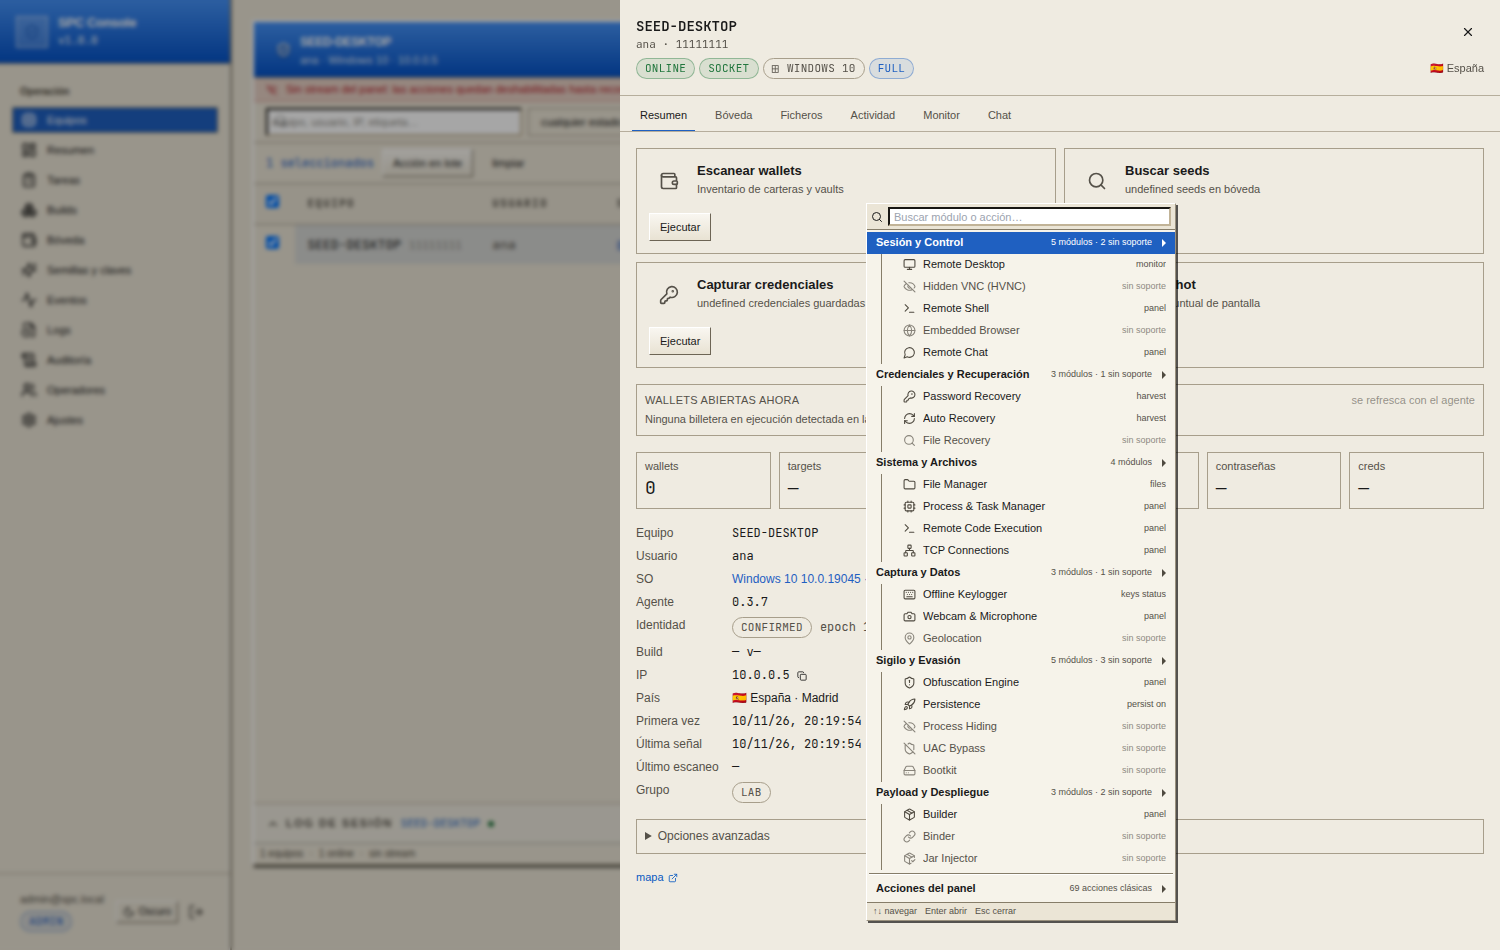
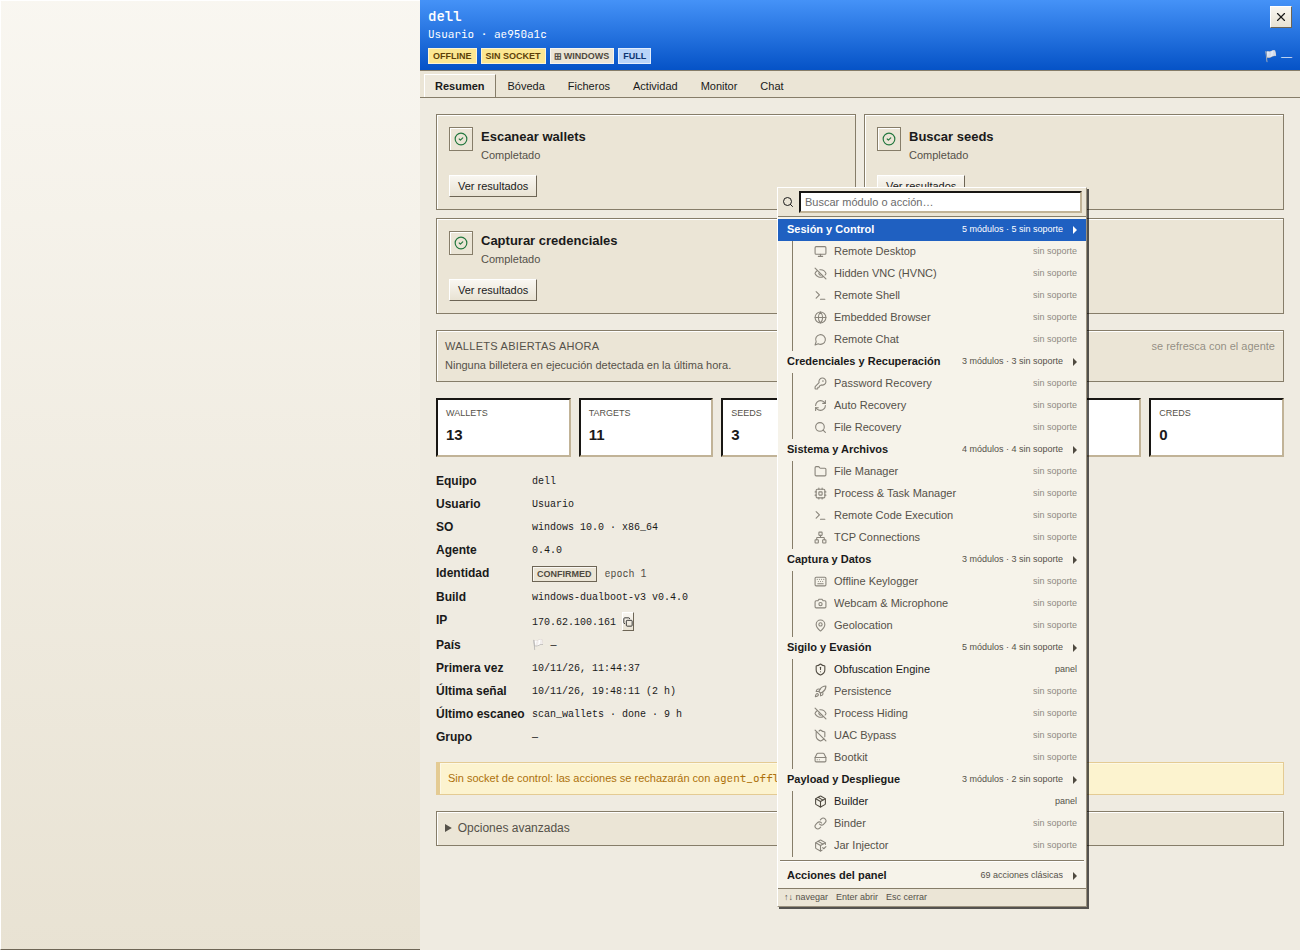
docs(ui): evidencias del despliegue con la pasada retro global

diff --git a/docs/MODULE_MENU_XP.md b/docs/MODULE_MENU_XP.md
@@ -65,7 +65,11 @@ Estado encontrado: trabajo a medias, sin compilar. Nada estaba cableado al panel
 
 ## 4. Evidencia visual
 
+- Pasada retro global: formularios hundidos, checkbox clásico, badges cuadrados por tono,
+  pestañas con relieve, filas seleccionadas azules, tarjetas de grupo, contadores
+  blancos, popovers y diálogos con barra de título.
 - `docs/ui/xp-victims.png`: listado con barra de título y estado.
+- `docs/ui/xp-detail.png`: detalle con cabecera azul, pestañas y metadatos densos.
 - `docs/ui/xp-module-menu.png`: las 6 categorías y los 23 módulos.
 - `docs/ui/xp-module-unsupported.png`: modal de módulo sin backend con reintento.
 - `docs/ui/xp-keylogger.png`: captura en vivo y consola cruda.
